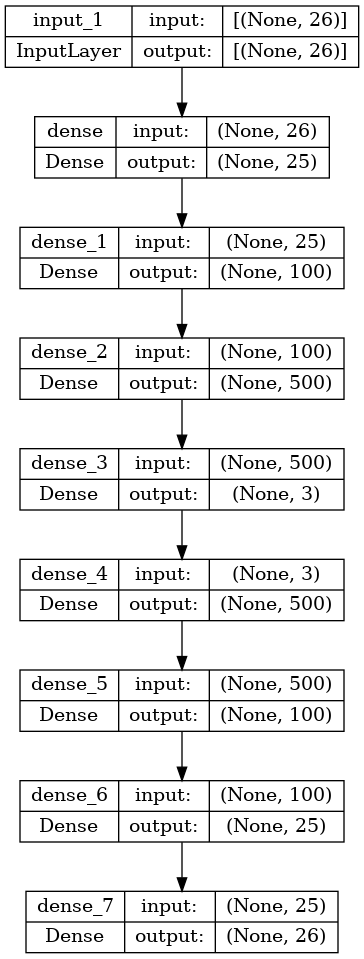
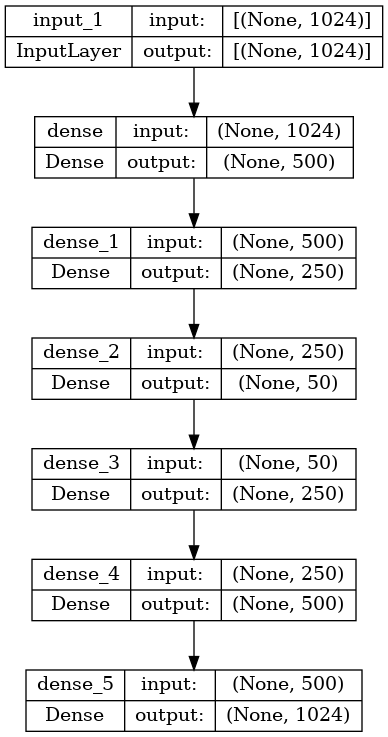
different tries

Changed region(s): [[0.0, 0.0, 0.9973, 0.9986]]

diff --git a/main.py b/main.py
@@ -4,6 +4,7 @@ from ann import Autoencoder
 
 def read_data():
     df = pd.read_csv('/home/acabello/Downloads/BBBP.csv')
+
     #df['mol'] = df['smiles'].progress_apply(lambda x: Chem.MolFromSmiles(x, sanitize=True))
     from sklearn.utils import resample
     # Separate majority and minority classes
@@ -17,9 +18,11 @@ def read_data():
                                     random_state=123) # reproducible results
     
     # Combine majority class with upsampled minority class
-    df_upsampled = pd.concat([df_majority, df_minority_upsampled])
+    df = pd.concat([df_majority, df_minority_upsampled]) #df_unsampled = pd.concat([df_majority, df_minority_upsampled])
+    
 
     dfs = list()
+
 
     for index, row in df.iterrows():
 
@@ -39,11 +42,11 @@ def read_data():
     df['NumHDonors'] = df['mol'].apply(lambda x: Chem.Lipinski.NumHDonors(x))
     df['NumAromaticRings'] = df['mol'].apply(lambda x: Chem.Lipinski.NumAromaticRings(x))
     df['PFI'] = df['LogP'] + df['NumAromaticRings']
-    df['QueryProperties'] = (df['MolWt'] < 450)\
-                        & (df['LogP'] < 3)\
-                        & (df['NumHDonors'] <= 2)\
-                        & (df['NumAromaticRings'] <= 3)\
-                        & (df['PFI'] <= 5)
+    # df['QueryProperties'] = (df['MolWt'] < 450)\
+    #                     & (df['LogP'] < 3)\
+    #                     & (df['NumHDonors'] <= 2)\
+    #                     & (df['NumAromaticRings'] <= 3)\
+    #                     & (df['PFI'] <= 5)
     
     df['NumHAcceptors'] = df['mol'].apply(lambda x: Chem.Lipinski.NumHAcceptors(x))
     df['NumRadicalElectrons'] = df['mol'].apply(lambda x: Descriptors.NumRadicalElectrons(x))
@@ -68,7 +71,7 @@ def read_data():
             
 
     features = ['MolWt', 'LogP', 'NumHDonors', 'NumAromaticRings', 'PFI', 
-    'QueryProperties', 'NumHAcceptors', 'NumRadicalElectrons', 'NumValenceElectrons',
+    'NumHAcceptors', 'NumRadicalElectrons', 'NumValenceElectrons',
     'HeavyAtomMolWt', 'MaxAbsPartialCharge', 'MinAbsPartialCharge', 'fraCSP3', 'NHOHCount',
     'NOCount', 'NumAliphaticCarbocycles', 'NumAliphaticHeterocycles', 'NumAliphaticRings', 
     'NumAromaticCarbocycles', 'NumAromaticHeterocycles', 'NumHeteroatoms', 'NumSaturatedCarbocycles', 
@@ -79,39 +82,92 @@ def read_data():
 
     return selected
 
+def read_data2():
+    df = pd.read_csv('/home/acabello/Downloads/BBBP.csv')
 
+    #df['mol'] = df['smiles'].progress_apply(lambda x: Chem.MolFromSmiles(x, sanitize=True))
+    from sklearn.utils import resample
+    # Separate majority and minority classes
+    df_majority = df[df.p_np==1]
+    df_minority = df[df.p_np==0]
+    
+    # Upsample minority class
+    df_minority_upsampled = resample(df_minority, 
+                                    replace=True,     # sample with replacement
+                                    n_samples=1567,    # to match majority class
+                                    random_state=123) # reproducible results
+    
+    # Combine majority class with upsampled minority class
+    df_unsampled = pd.concat([df_majority, df_minority_upsampled]) #df_unsampled = pd.concat([df_majority, df_minority_upsampled])
+   
+
+    dfs = list()
+
+
+    for index, row in df.iterrows():
+
+        try:
+            curr_mol_df = pd.DataFrame([row.to_dict()])
+            mol = Chem.MolFromSmiles(row['smiles'], sanitize=True)
+            curr_mol_df['mol'] = Chem.AddHs(mol)
+            to_add = pd.concat([pd.DataFrame([row.to_dict()]), curr_mol_df], axis=1)
+            dfs.append(to_add)
+        except:
+            print("Something wrong")
+    df = pd.concat(dfs)
+
+
+    labels = df['p_np']
+    labels = labels.loc[:,~labels.columns.duplicated()].copy()
+            
+    fps = [AllChem.GetMorganFingerprintAsBitVect(mol, 2, nBits=1024) for mol in df['mol']]
+
+    
+    return fps, labels['p_np'].to_numpy()
 
 def main():
-
+    """Autoencoder and descriptors"""
     selected = read_data()
+
     items_features_fitted = prepareInput(selected)
+    print(items_features_fitted)
+    print(items_features_fitted.shape)
+
+    length = items_features_fitted.shape.as_list()[1]    
     
 
     ac = Autoencoder(
-                        input_dim=items_features_fitted.shape.as_list()[1], 
-                        hidden_dim_enc=[25, 100, 500],
-                        hidden_dim_dec=[500, 100, 25], 
+                        input_dim=length, 
+                        hidden_dim_enc=[20, 10, 5],
+                        hidden_dim_dec=[5, 10, 20], 
                         output_dim=3
                     )
 
     autoencoder, encoder = ac.build_model()
     
 
+
     # split into training and testing sets (80/20 split)
-    train_data, test_data, train_labels, test_labels = train_test_split(items_features_fitted.numpy(), 
-                                                                        selected, train_size=0.8, 
-                                                                        random_state=5)
+    X_train, X_test, y_train, y_test = train_test_split(   
+                            items_features_fitted.numpy(), 
+                            selected['p_np'].to_numpy(), 
+                            test_size=0.2, random_state=42)
+
+    
+    
 
     callback = tf.keras.callbacks.EarlyStopping(monitor='loss', patience=5)
 
 
     # fit the model using the training data
-    history = autoencoder.fit(train_data, train_data, 
-                                    epochs=500, batch_size=256, shuffle=True, 
-                                    validation_data=(test_data, test_data),
+    history = autoencoder.fit(X_train, X_train, 
+                                    epochs=500, batch_size=32, shuffle=True, 
+                                    validation_data=(X_test, X_test),
                                     verbose=1,
                                     callbacks=[callback])
-                        
+    
+
+
 
 
 
@@ -120,10 +176,116 @@ def main():
 
 
     # evaluate the model using the test data
-    test_loss, test_acc = autoencoder.evaluate(test_data, test_data)
+    test_loss, test_acc = autoencoder.evaluate(X_test, X_test)
     print('Test loss:', test_loss)
+
+    predauto = encoder.predict(X_test)
+    print(predauto)
+    
+
+    # apply K-Means to the autoencoder output
+    kmeans = KMeans(n_clusters=2, random_state=0).fit(predauto)
+    y_pred = kmeans.predict(predauto)
+    y_pred = [1 if not i else 0 for i in y_pred]
+
+    
+    # calculate the confusion matrix
+    cm = confusion_matrix(y_test, y_pred)
+    print(cm)
+
+    # calculate the accuracy
+    accuracy = accuracy_score(y_test, y_pred)
+    print(accuracy)
+
+
+def main2():
+    """Morgan Fingerprints and K-Means"""
+
+    fps, labels = read_data2()
+
+
+    df_morgan_fps = pd.DataFrame (np.array (fps))
+    print(df_morgan_fps)
+
+    kmeans = KMeans(n_clusters = 2)
+    kmeans.fit(df_morgan_fps)
+    
+    # Dimension reduction with PCA 
+     
+    pca = PCA (n_components = 8) 
+    decomp = pca.fit_transform(df_morgan_fps) 
+    x = decomp [:, 0 ] 
+    y = decomp [:, 1] 
+    
+    #Visualization 
+    plt.figure (figsize = (15,5)) 
+    #Color-coded clusters obtained by kmeans 
+    plt.subplot(1,2,1)
+    plt.scatter (x, y, c = kmeans.labels_, alpha = 0.7)
+    plt.title ("PCA: morgan_fps, cluster")
+    plt.colorbar () 
+    plt.show ()
+
+    # plot the points with colors corresponding to their cluster labels
+    plt.scatter(x, y, c=labels, cmap='rainbow')
+    plt.title("PCA: morgan_fps, labels")
+    plt.show()
+
+    # calculate the confusion matrix
+    cm = confusion_matrix(labels, kmeans.labels_)
+    print(cm)
+
+    # calculate the accuracy
+    accuracy = accuracy_score(labels, [1 if not i else 0 for i in kmeans.labels_])
+    print(accuracy)
+
+
+
+def main3():
+    """Use all the descriptors and Dimensionality red with UMAP and K-Means"""
+
+    selected = read_data()
+    print(selected)
+
+    
+
+    # split into training and testing sets (80/20 split), train selected except 'p_np'
+    X_train, X_test, y_train, y_test = train_test_split(
+                            selected.drop(['p_np'], axis=1).to_numpy(),
+                            selected['p_np'].to_numpy(),
+                            test_size=0.2, random_state=42
+    )
+
+    scaler = preprocessing.StandardScaler().fit(X_train)
+    X_train = scaler.transform(X_train)
+    X_test = scaler.transform(X_test)
+
+    # perform K-Means on the descriptors
+    kmeans = KMeans(n_clusters=2, random_state=0).fit(X_train)
+    
+    
+    y_pred = [1 if not i else 0 for i in kmeans.predict(X_test)]
+
+    # perform dimensionality reduction with UMAP
+    reducer = umap.UMAP(n_components=2)
+    reducer.fit(X_train)
+    x_reduced = reducer.transform(X_test)
+    
+    # plot the points with colors corresponding to their cluster labels
+    plt.scatter(x_reduced[:, 0], x_reduced[:, 1], c=y_pred, cmap='rainbow')
+    plt.title("UMAP: descriptors, labels")
+    plt.show()
+
+
+    # calculate the confusion matrix
+    cm = confusion_matrix(y_pred, y_test)
+    print(cm)
+
+    # calculate the accuracy
+    accuracy = accuracy_score(y_pred, y_test)
+    print(accuracy)
 
 
 
 if __name__ == '__main__':
-    main()
+    main3()

diff --git a/utils.py b/utils.py
@@ -4,6 +4,8 @@ import pickle
 import uuid
 import time
 
+import umap
+
 from rdkit import Chem
 from rdkit.Chem import AllChem
 from rdkit.Chem import rdDistGeom
@@ -27,6 +29,12 @@ from mpl_toolkits.mplot3d import Axes3D  # 3D plots
 from sklearn.model_selection import train_test_split
 from sklearn.cluster import KMeans
 from sklearn import manifold
+from sklearn.metrics import confusion_matrix
+from sklearn.metrics import accuracy_score
+from sklearn.decomposition import PCA
+from sklearn import preprocessing
+
+from tensorflow.keras import models
 
 # TensorFlow and Keras
 import tensorflow as tf
@@ -148,3 +156,5 @@ def prepareInput(df: pd.DataFrame):
     items_features_fitted = preprocessing_layer(items_features_dict)
 
     return items_features_fitted
+
+

diff --git a/ann.py b/ann.py
@@ -53,7 +53,7 @@ class Autoencoder:
             x = Dense(self.hidden_dim_enc, activation=self.activation, kernel_initializer=self.k_initializer)(self.input_df)
             encoded = Dense(self.output_dim, activation='relu')(x)
             x = Dense(self.hidden_dim_dec, activation=self.activation, kernel_initializer=self.k_initializer)(encoded)
-            decoded = Dense(self.input_dim, activation='relu')(x)
+            decoded = Dense(self.input_dim, activation='sigmoid')(x)
             
             autoencoder = keras.Model(self.input_df, decoded)
             encoder = keras.Model(self.input_df, encoded)
